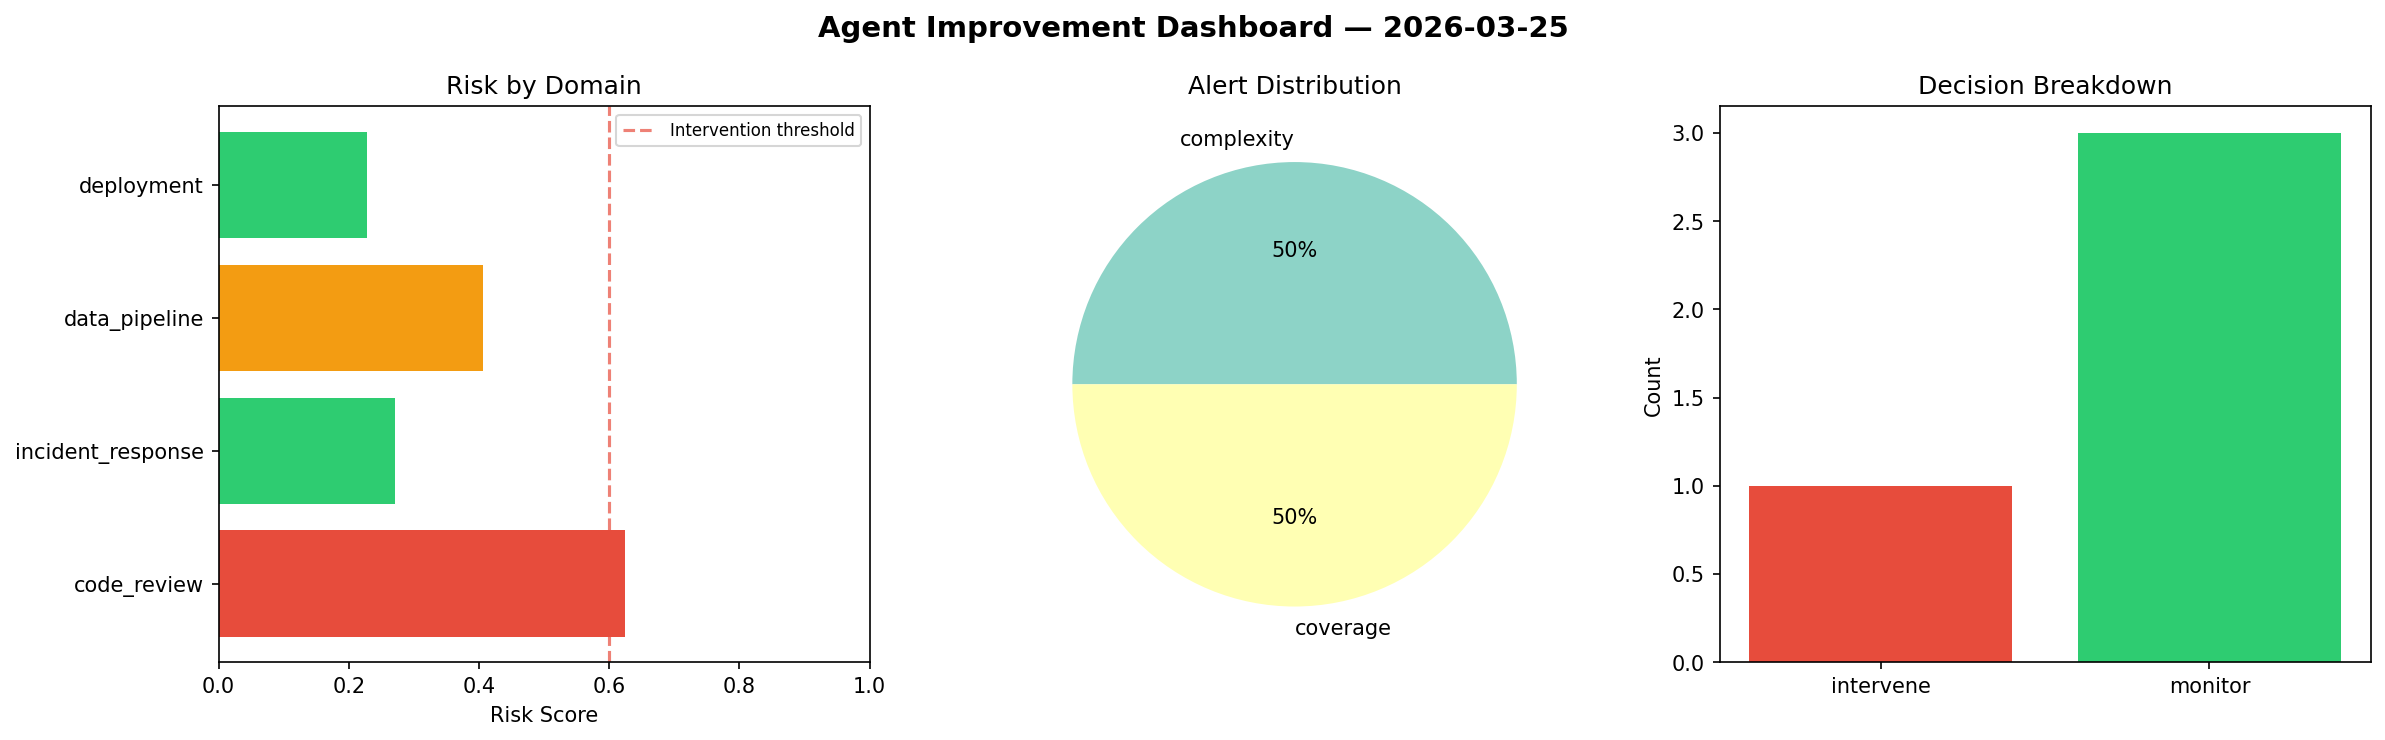
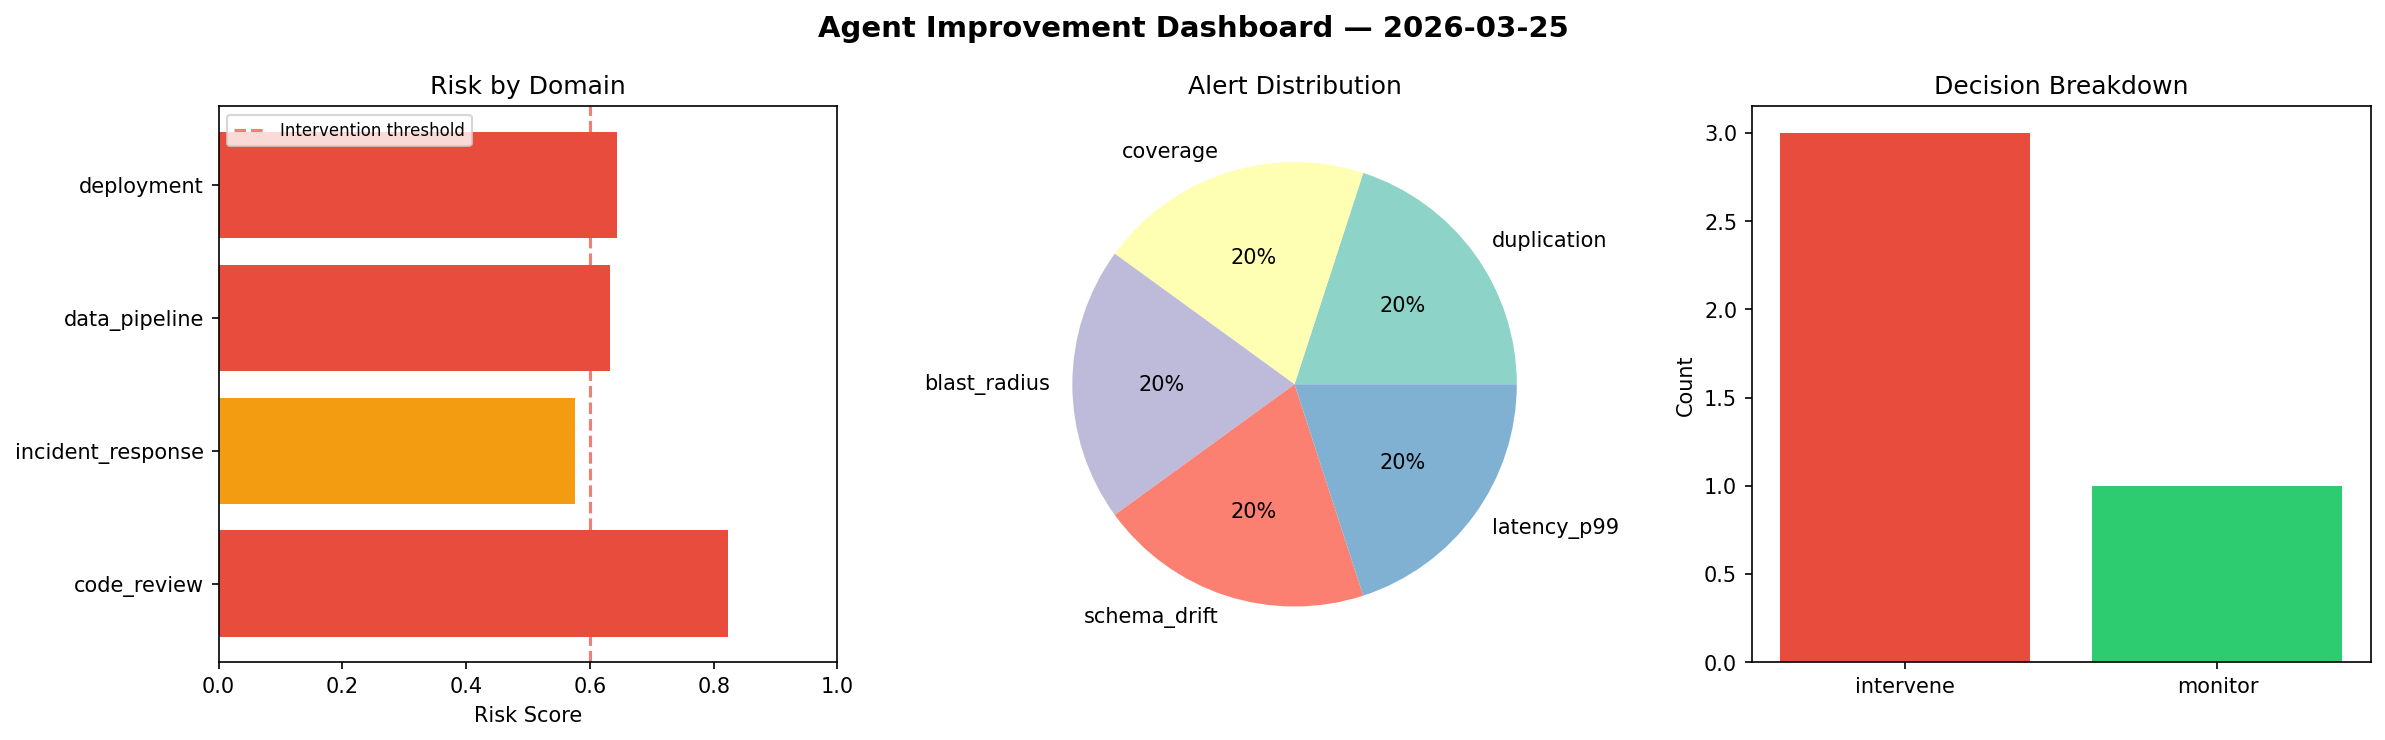
agent-improvement: daily cycle 2026-03-25T09:08

diff --git a/logs/2026-03-25.md b/logs/2026-03-25.md
@@ -1,6 +1,6 @@
 # Agent Improvement Report — 2026-03-25
 
-**Cycle ID:** `6f68cbb9` | **Avg Risk:** 0.3822 | **Interventions:** 1/4
+**Cycle ID:** `9cd1dc6f` | **Avg Risk:** 0.6687 | **Interventions:** 3/4
 
 ![Dashboard](2026-03-25_dashboard.png)
 
@@ -10,18 +10,18 @@
 
 | Domain | Risk Score | Decision | Alerts |
 |--------|-----------|----------|--------|
-| code_review | 0.6242 | intervene | complexity, coverage |
-| incident_response | 0.2706 | monitor | none |
-| data_pipeline | 0.4062 | monitor | none |
-| deployment | 0.2278 | monitor | none |
+| code_review | 0.8233 | intervene | duplication, coverage |
+| incident_response | 0.5756 | monitor | blast_radius |
+| data_pipeline | 0.6325 | intervene | schema_drift |
+| deployment | 0.6435 | intervene | latency_p99 |
 
 ## Delta vs Yesterday
 
 | Domain | Today | Yesterday | Change |
 |--------|-------|-----------|--------|
-| code_review | 0.6242 | 0.5177 | 📈 20.6% |
-| incident_response | 0.2706 | 0.8179 | 📉 -66.9% |
-| data_pipeline | 0.4062 | 0.6461 | 📉 -37.1% |
-| deployment | 0.2278 | 0.6291 | 📉 -63.8% |
+| code_review | 0.8233 | 0.5177 | 📈 59.0% |
+| incident_response | 0.5756 | 0.8179 | 📉 -29.6% |
+| data_pipeline | 0.6325 | 0.6461 | 📉 -2.1% |
+| deployment | 0.6435 | 0.6291 | 📈 2.3% |
 
 **Refinement:** `{'adjustment': 'maintain', 'trend': 'improving', 'window': 4}`
